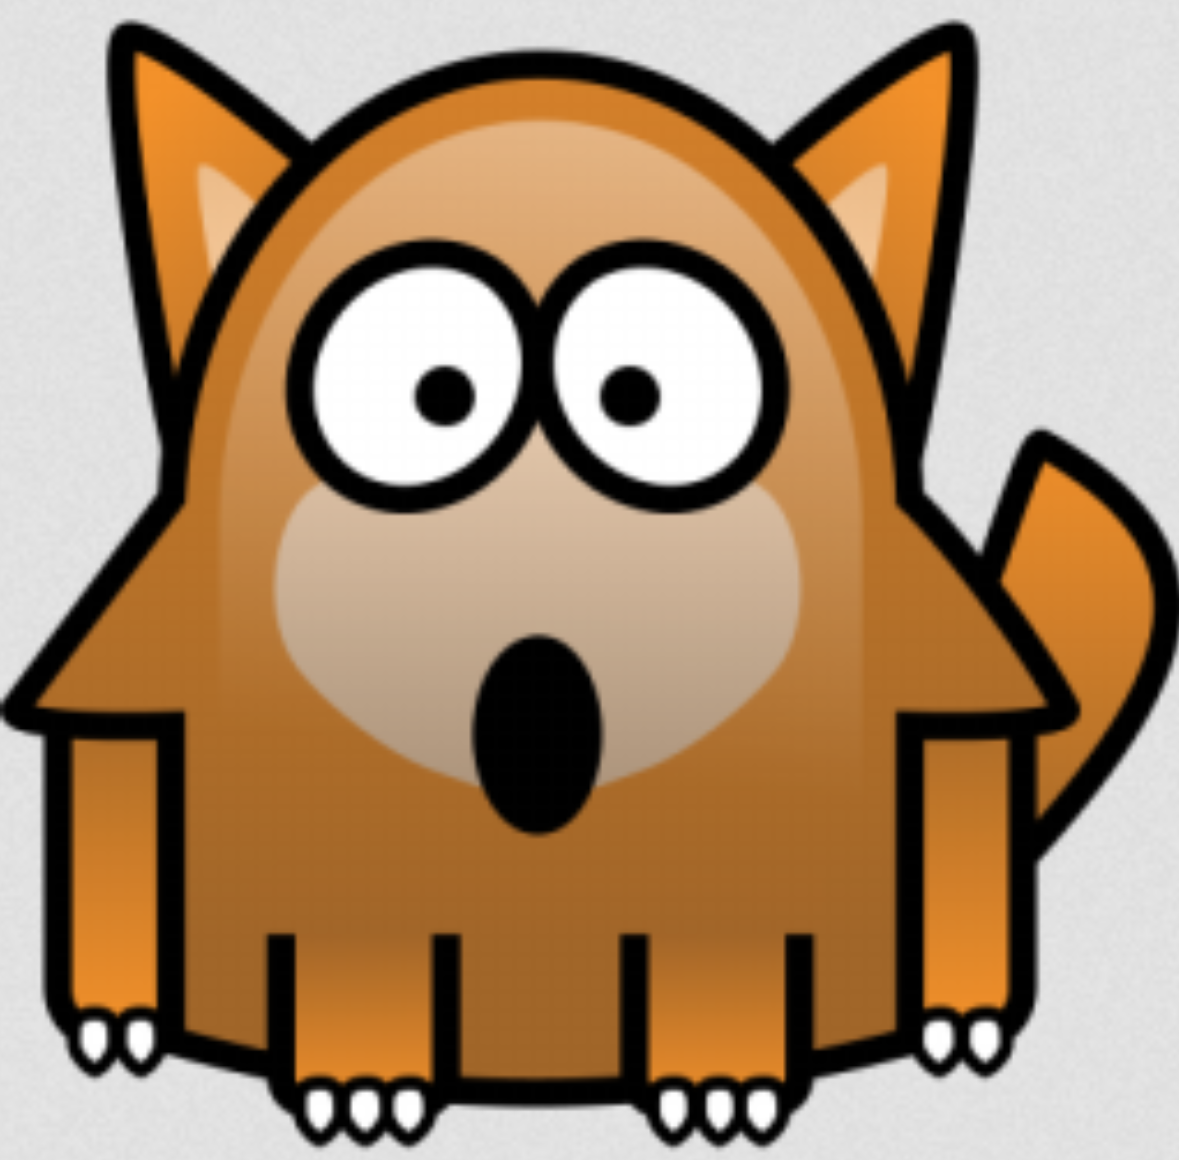
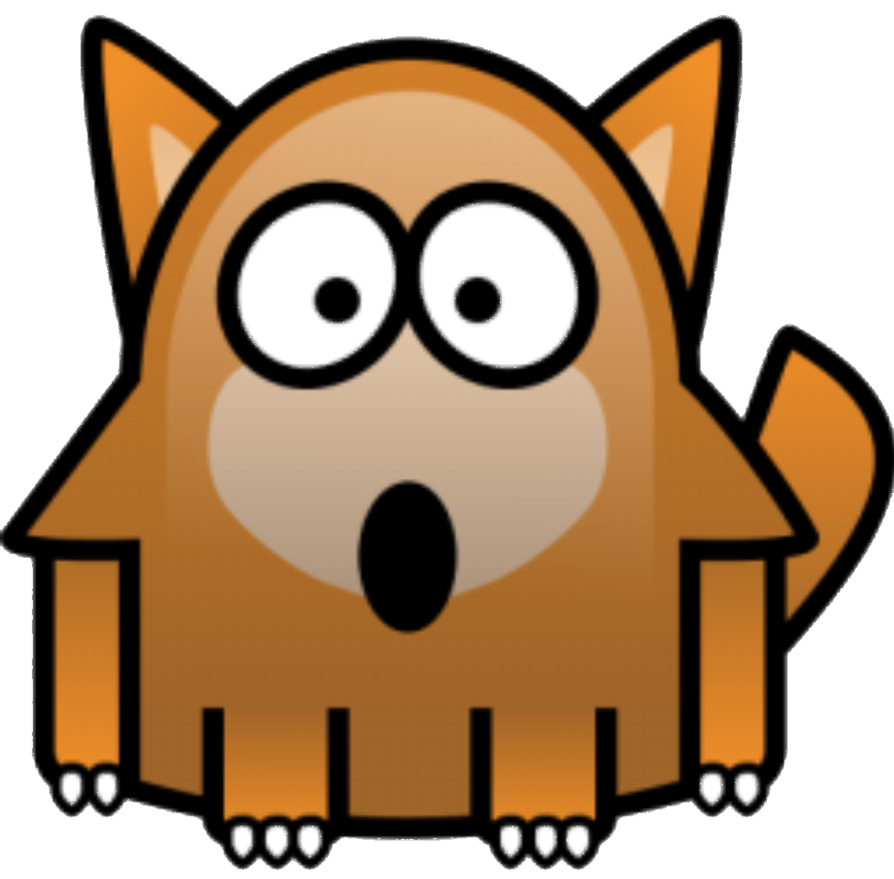
Set transparent background for images

Changed region(s): [[0.0, 0.0, 1.0, 1.0]]

diff --git a/src/gui.py b/src/gui.py
@@ -110,7 +110,7 @@ class InitWindow:
 
         _github_button = tk.Button(master)
         _github_button_image = tk.PhotoImage(file=pngList[2])
-        _github_button_image = _github_button_image.subsample(7, 7)
+        _github_button_image = _github_button_image.subsample(5, 5)
         _github_button.config(image=_github_button_image, width=60, height=20)
         _github_button._github_button_image = _github_button_image
         _github_button.bind("<Button-1>", callback_GitHub)
